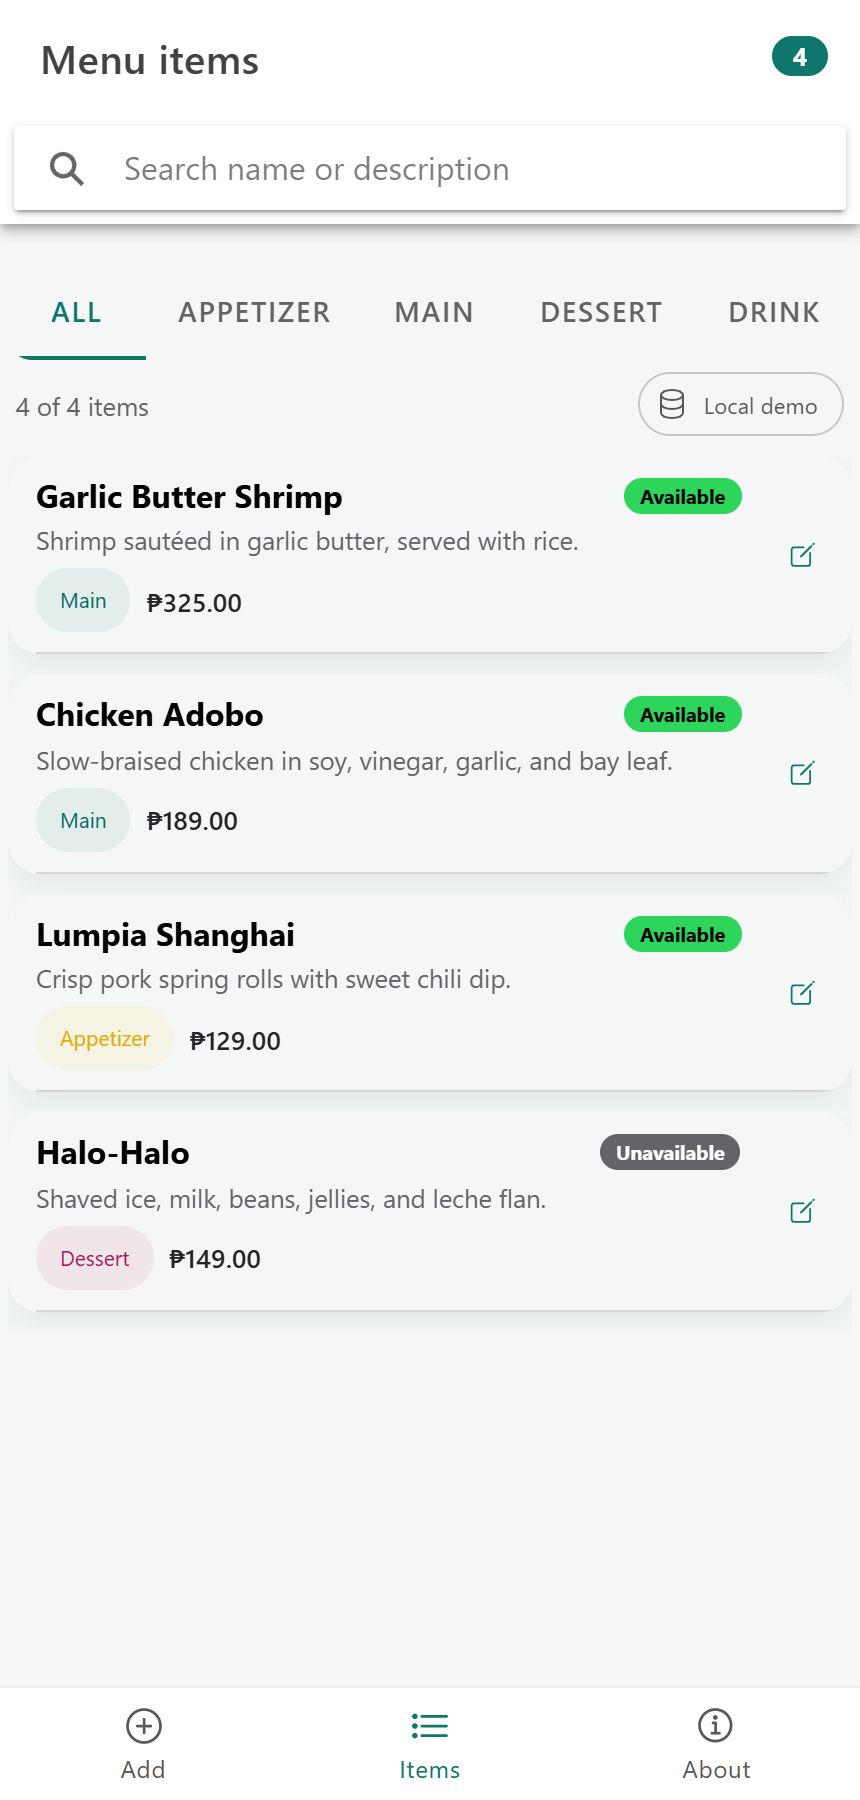
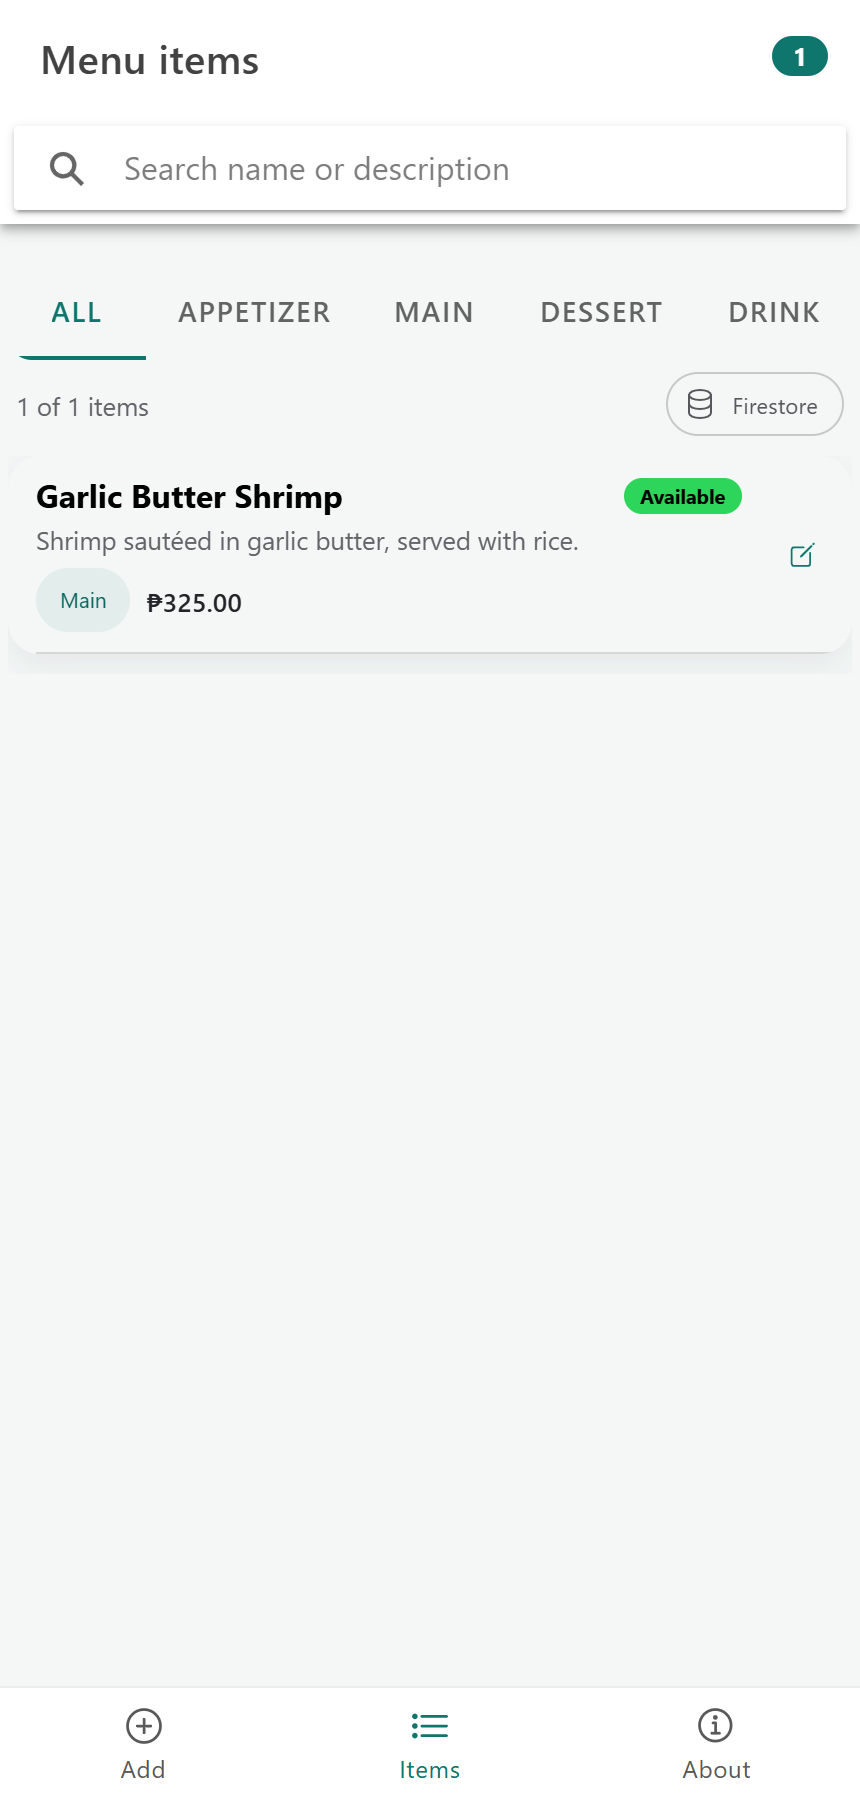
docs: record final Firebase and CI/CD evidence [skip ci]

diff --git a/docs/LAB-REPORT.md b/docs/LAB-REPORT.md
@@ -76,6 +76,26 @@ deleteDoc(doc(db, 'menuItems', id));            // delete
 No AngularFire is used, matching the manual's "Firebase SDK v9+ (no
 AngularFire)" note.
 
+**Connected project (13 Nov 2026).** The app now uses the real `serverlena`
+web-app config committed in `src/environments/environment.ts` and
+`environment.prod.ts`:
+
+| Item | Value |
+|---|---|
+| Firebase project | `serverlena` |
+| Firestore database | `(default)`, Firestore Native, `asia-southeast1` (Singapore) |
+| Security rules | `firestore.rules` deployed to `cloud.firestore` |
+| Web app | `1:222955201733:web:8199a7e0422c10d8a47cac` |
+| Analytics | `G-KX52PX01BD` (optional) |
+
+The lab rules allow anonymous read/write on `menuItems` so the marker can open
+the app without signing in. They are intentionally open and must be replaced
+before any real deployment.
+
+Because Angular 22 runs **zoneless**, the async Firestore callbacks call
+`ChangeDetectorRef.markForCheck()`. Without it the `ion-loading` overlay and
+toasts would stay frozen after the first remote write.
+
 ### 1.5 Verification
 
 | Check | Result |
@@ -83,7 +103,7 @@ AngularFire)" note.
 | `npm run build` | Passed; bundle written to `www/` |
 | `npm run test:ci` | 7 files, **19 tests passed** |
 | `npm run lint` | All files pass |
-| Browser smoke test | Create → read → search → update → delete passed in Chrome |
+| Browser smoke test | Create → read → search → update → delete passed in Chrome **against real Firestore**; the collection was empty again afterwards |
 
 Screenshots (captured from the running app):
 
@@ -99,11 +119,9 @@ Screenshots (captured from the running app):
 | `docs/screenshots/08-about.png` | Backend status and deliverables |
 | `docs/screenshots/09-items-desktop.png` | Desktop layout |
 
-> The screenshots above were taken in **local demo mode**. To produce the
-> Firebase version for submission, paste a real config
-> (`docs/FIREBASE_SETUP.md`), restart the app, add an item, and take the same
-> screenshots with the **Firestore** chip visible and the document visible in
-> the Firebase console.
+> The screenshots above were taken in **Firestore mode** against the deployed
+> container: the app shows the **Firestore** chip and the CRUD flow writes to
+> the `serverlena` `menuItems` collection.
 
 ---
 
@@ -173,6 +191,10 @@ became healthy, and the browser CRUD smoke test passed against
 | HTTP check | `200 OK` |
 | CRUD smoke test | Passed (create, read, search, update, delete) |
 
+The self-hosted CD run later rebuilt and replaced this container. The current
+deployed image and container IDs, plus the browser test against them, are in
+[§3.4](#34-verified-pipeline-run-final).
+
 The exact captured command output is in
 [`LAB6-DOCKER-EVIDENCE.md`](LAB6-DOCKER-EVIDENCE.md). The Docker Desktop
 Containers view is captured in
@@ -222,7 +244,8 @@ startup errors.
 3. `docker build -t ionic-crud .`
 4. `docker rm -f ionic-crud ionic-crud-container` (allowed to fail on the first run).
 5. `docker run -d --name ionic-crud-container --restart unless-stopped -p 8100:8100 ionic-crud`
-6. Poll `http://localhost:8100/` for up to 60 seconds; on failure print
+6. Wait up to 5 minutes for the container health check to report `healthy`,
+   then request `http://localhost:8100/`. On failure print `docker ps -a` and
    `docker logs ionic-crud-container` and fail the job.
 
 The CD job only runs after CI succeeds and only for a push to `main`.
@@ -245,6 +268,42 @@ The CD job only runs after CI succeeds and only for a push to `main`.
 4. Wait for both jobs to finish, refresh <http://localhost:8100>, and confirm the
    change appears.
 5. Repeat with another visible change.
+
+### 3.4 Verified pipeline run (final)
+
+The zoneless-UI fix was pushed as commit `41e0208` and produced run
+[**43332501159**](https://github.com/ahrongayutin02-cmyk/ite413-labs/actions/runs/43332501159).
+Both jobs completed successfully:
+
+| Item | Value |
+|---|---|
+| Workflow run | `43332501159` — CI/CD Pipeline #6 |
+| Event / branch | `push` / `main` |
+| Commit | `41e0208` — fix(ui): refresh async Firestore state in zoneless change detection |
+| Started | 2026-11-12 23:52:44 UTC |
+| Total duration | 8m 50s |
+| CI job | `131580401188` — success, 1m 25s |
+| CD job | `131581036510` — success, 7m 18s (5m 16s spent in the health/HTTP verify step) |
+| Deployed image | `sha256:d5ac7f68571ed6997d0b627e9f731a678d060371a88a80238097e3d20d3d61b9` |
+| Image tag / size | `ionic-crud:latest` / 1.69 GB |
[1 lines of base64/hex data omitted]
+| Container status | `Up (healthy)`, `0.0.0.0:8100->8100/tcp` |
+| HTTP check | `200`, 873-byte app shell |
+| Browser smoke test | create → read → search → update → delete passed against the **deployed container**; Firestore `menuItems` was empty afterwards |
+
+Evidence screenshots:
+
+| File | Content |
+|---|---|
+| `docs/screenshots/12-github-actions-run.png` | Run summary: both jobs green, commit `41e0208` |
+| `docs/screenshots/13-github-actions-cd-job.png` | CD steps through **Verify app** |
+| `docs/screenshots/14-cd-deployed-app.png` | App served from the new container with the **Firestore** chip |
+
+An earlier pipeline run
+([`43326257360`](https://github.com/ahrongayutin02-cmyk/ite413-labs/actions/runs/43326257360))
+first proved the hosted-CI → self-hosted-CD path. The run above is the final
+one and includes the fix that makes async Firestore state render correctly in
+the zoneless Angular build.
 
 ---
 

diff --git a/docs/SUBMISSION-CHECKLIST.md b/docs/SUBMISSION-CHECKLIST.md
@@ -18,38 +18,41 @@
       container `ionic-crud-container` healthy, browser CRUD smoke test passed.
       Details: `docs/LAB6-DOCKER-EVIDENCE.md`.
 - [x] GitHub Actions CI/CD workflow with Windows hosted CI and self-hosted CD.
-- [x] Deployable lab Firestore rules (`firebase.json`, `firestore.rules`).
+- [x] Firestore database `(default)` created in `serverlena`
+      (Firestore Native, `asia-southeast1`) and `firestore.rules` deployed.
+- [x] Real Firebase web config committed in `environment.ts` / `environment.prod.ts`.
+- [x] GitHub repository <https://github.com/ahrongayutin02-cmyk/ite413-labs>
+      created and `main` pushed.
+- [x] Self-hosted runner `axeljosh-lab6-runner` online (Idle), labels
+      `self-hosted`, `Windows`, `X64`.
+- [x] CD pipeline passed and deployed the container; evidence in
+      `docs/screenshots/12-github-actions-run.png`,
+      `13-github-actions-cd-job.png`, and `14-cd-deployed-app.png`.
 - [x] Unit tests: 7 files / 19 tests passing.
 - [x] Lint passing.
 - [x] Production build passing.
 - [x] Real-browser CRUD smoke test passing, with screenshots in `docs/screenshots/`.
 - [x] Lab report, Firebase setup guide, and Docker runbook.
 
-## Needs your account / machine (cannot be completed by an agent)
+## Remaining manual items
 
-- [ ] **Firebase project** — create it, paste the web config into
-      `src/environments/environment.ts` (and `.prod.ts` for a production
-      build), deploy the rules in `firestore.rules`, then take the
-      Firestore-mode screenshots. See `docs/FIREBASE_SETUP.md`.
-- [ ] **Docker screenshots** — the runtime is verified; open Docker Desktop's
-      **Containers** view and take the GUI screenshot listed in
-      `docs/DOCKER-RUNBOOK.md` if your instructor requires it.
-- [ ] **GitHub repository** — create a repo, push `main`, and confirm the CI job
-      passes in the Actions tab.
-- [ ] **Self-hosted runner** — register it on the repository
-      (Settings → Actions → Runners), start `.\run.cmd`, confirm it is Idle with
-      labels `self-hosted`, `Windows`, `X64`.
-- [ ] **CD verification** — push a visible change to `main`, watch CI then CD,
-      refresh <http://localhost:8100>, and screenshot the updated app.
-- [ ] **Lab sheet answers** — Docker values are already captured in
-      `docs/LAB6-DOCKER-EVIDENCE.md`; add the workflow run URLs and runner name.
+- [ ] **Docker Desktop screenshot** (only if the instructor requires a GUI
+      screenshot): open Docker Desktop's **Containers** view and capture the
+      screen listed in `docs/DOCKER-RUNBOOK.md`. The runtime itself is verified.
+- [ ] **Lab sheet answers** — Docker values are in
+      `docs/LAB6-DOCKER-EVIDENCE.md`; workflow run URLs and the runner name are in
+      `docs/LAB-REPORT.md` → CI/CD.
 
-## Suggested commit sequence
+## Key commits on `main`
 
-```bash
-git add .
-git commit -m "feat(lab4): Ionic tabs CRUD with MenuItem model and Firebase"
-git commit -m "feat(lab6): add Dockerfile and container instructions"
-git commit -m "ci: add Windows CI and self-hosted Docker deployment"
-git push -u origin main
+```text
+41e0208 fix(ui): refresh async Firestore state in zoneless change detection
+9131919 ci: use Windows PowerShell on the self-hosted runner
+a75f8ab ci: wait for container health before verifying the deployment
+82934ea feat(firebase): connect Lab 4 to the serverlena web app config
+8da3bef feat: complete ITE 413 Lab 4, Lab 6, and CI/CD pipeline
 ```
+
+Earlier commits add the Docker runbook, Docker verification evidence, and the
+local demo-backend fixes. The repository is already pushed; no further commit
+sequence is required.

diff --git a/README.md b/README.md
@@ -30,9 +30,8 @@ The CRUD entity is a **MenuItem** for a restaurant menu (chosen for the Lab 4
 - **Delete** — swipe left on an item (`ion-item-sliding`) or delete all from the
   About tab with an `ion-alert` confirmation.
 - **Backend** — Firebase Firestore through the modular SDK (`onSnapshot`,
-  `addDoc`, `updateDoc`, `deleteDoc`) when a real web config is present;
-  otherwise a localStorage demo backend with seeded rows, so the app is usable
-  before Firebase is connected.
+  `addDoc`, `updateDoc`, `deleteDoc`). A localStorage demo backend with seeded
+  rows is kept as a fallback when the config is missing or still a placeholder.
 
 ## Quick start
 
@@ -58,13 +57,18 @@ CI/CD workflow.
 
 ## Connect Firebase (Lab 4)
 
-The app runs immediately in **local demo mode**. To use real Firestore:
+This project is already connected to the `serverlena` Firebase project. The web
+config is in `src/environments/environment.ts` and `environment.prod.ts`, the
+`(default)` Firestore database exists in `asia-southeast1`, and
+`firestore.rules` is deployed. The app badge reads **Firestore**.
+
+To point another copy at a different project:
 
 1. Create a Firebase project and a Web app in the Firebase Console.
 2. Enable **Cloud Firestore** (test mode is enough for the lab).
-3. Copy the web app config into `src/environments/environment.ts` (and
-   `environment.prod.ts` for a production build).
-4. Create the `menuItems` collection by adding the first item through the app.
+3. Replace the web app config in both environment files.
+4. Deploy the rules: `firebase deploy --only firestore:rules`.
+5. Create the `menuItems` collection by adding the first item through the app.
 
 Full steps, including the lab-only Firestore rules, are in
 [`docs/FIREBASE_SETUP.md`](docs/FIREBASE_SETUP.md).
@@ -122,7 +126,8 @@ The workflow has two jobs:
 2. **Continuous Deployment** on `[self-hosted, Windows, X64]`:
    checkout → `docker info` → `docker build -t ionic-crud .` → remove the old
    `ionic-crud`/`ionic-crud-container` container → run the new one as
-   `ionic-crud-container` on port 8100 → poll `http://localhost:8100/`.
+   `ionic-crud-container` on port 8100 → wait for the container health check
+   (up to 5 minutes) → request `http://localhost:8100/`.
 
 ### Register the self-hosted runner
 
@@ -148,6 +153,14 @@ The runner machine needs Docker Desktop running and the labels `self-hosted`,
   (1,691,417,380 bytes), container `ionic-crud-container` healthy on
   `8100:8100`, and the browser CRUD smoke test passed against the container.
   See [`docs/LAB6-DOCKER-EVIDENCE.md`](docs/LAB6-DOCKER-EVIDENCE.md).
+- CI/CD — run
+  [43332501159](https://github.com/ahrongayutin02-cmyk/ite413-labs/actions/runs/43332501159)
+  passed on commit `41e0208`: CI on `windows-latest` and CD on the self-hosted
+  runner both green, new container healthy on port 8100, and the CRUD smoke
+  test passed against the deployed container. Screenshots:
+  [`12-github-actions-run.png`](docs/screenshots/12-github-actions-run.png),
+  [`13-github-actions-cd-job.png`](docs/screenshots/13-github-actions-cd-job.png),
+  [`14-cd-deployed-app.png`](docs/screenshots/14-cd-deployed-app.png).
 
 ## Project structure
 

diff --git a/docs/FIREBASE_SETUP.md b/docs/FIREBASE_SETUP.md
@@ -1,8 +1,14 @@
 # Firebase setup (Lab 4)
 
-The app ships with placeholder Firebase values and runs in **local demo mode**
-(localStorage) until you replace them. The CRUD code path is already written
-against Firestore, so switching is a config-only change.
+> **Already connected.** This project is live against the `serverlena` Firebase
+> project; the web config is committed in `src/environments/environment.ts` and
+> `environment.prod.ts`, and `firestore.rules` is deployed. The app shows the
+> **Firestore** chip. Keep this guide for reference or to point a copy of the
+> project at a different Firebase project.
+
+The app supports placeholder Firebase values and falls back to **local demo
+mode** (localStorage) when they are present. The CRUD code path is already
+written against Firestore, so switching projects is a config-only change.
 
 ## 1. Create the project
 

diff --git a/docs/LAB6-DOCKER-EVIDENCE.md b/docs/LAB6-DOCKER-EVIDENCE.md
@@ -2,6 +2,13 @@
 
 Captured on **13 Nov 2026** on `AXELJOSH` after the WSL2 reboot.
 
+> **Update after the CI/CD deployment (run `43332501159`).** The self-hosted
+> runner rebuilt and replaced the container, so the current deployment is:
+> image `sha256:d5ac7f68571ed6997d0b627e9f731a678d060371a88a80238097e3d20d3d61b9`,
[1 lines of base64/hex data omitted]
+> started `2026-11-12T23:55:51Z`, healthy, HTTP 200 on port 8100. The values
+> below document the earlier local Lab 6 build; both used the same Dockerfile.
+
 ## Environment
 
 | Item | Value |

diff --git a/docs/DOCKER-RUNBOOK.md b/docs/DOCKER-RUNBOOK.md
@@ -120,6 +120,10 @@ docker image inspect ionic-crud --format "ID={{.Id}} Size={{.Size}}"
 | `docker build` duration | ~16 minutes (cold build) |
 | `docker run` / first response duration | ~65 seconds to healthy |
 
+> These values are from the first local build. The CI/CD pipeline later
+> rebuilt the image and replaced the container; the current IDs are recorded in
+> [`LAB-REPORT.md`](LAB-REPORT.md) → CI/CD → Verified pipeline run (final).
+
 Screenshots to add to the submission:
 
 1. Docker Desktop **Containers** view showing `ionic-crud-container` running.
